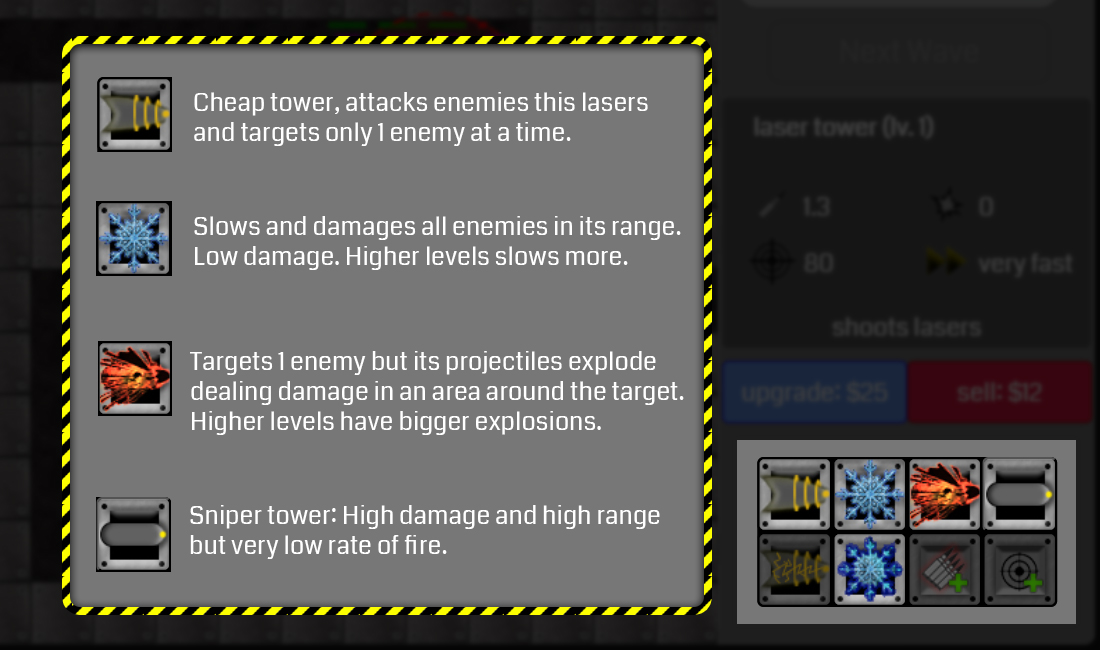
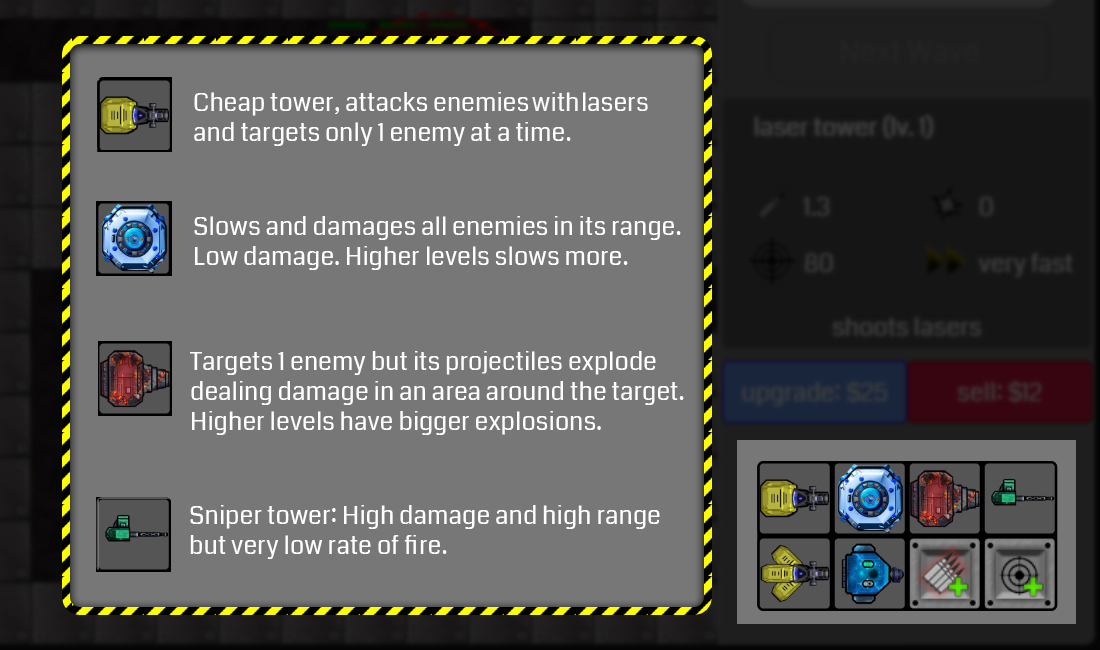
minor fixes & ending screen

diff --git a/Classes/InfoPanel.js b/Classes/InfoPanel.js
@@ -14,6 +14,8 @@ export default class InfoPanel{
     showRadiusCheckbox = document.getElementById("showRadius")
     autoNextLevelCheckbox = document.getElementById("autoNextLevel")
     startButton = document.getElementById("startButton")
+
+    playAgainButton = document.getElementById('playAgainButton')
     
     helpContainer = document.getElementById("helpContainer")
     helpCloseButton = document.getElementById("helpCloseButton")
@@ -47,6 +49,11 @@ export default class InfoPanel{
         this.speedIcon.src = _PATHS.speedIcon
 
         this.blackScreen.append(this.helpScreen)
+
+        this.playAgainButton.addEventListener("click", (e)=>{
+            e.preventDefault()
+            location.reload()
+        })
 
         this.helpButton.addEventListener("click", (e)=>{
             e.preventDefault()
@@ -107,6 +114,10 @@ export default class InfoPanel{
 
             this.game.map.tiles[tower.tile.x][tower.tile.y].tower = false
             this.game.graphics.changeTile(tower.tile.x, tower.tile.y, "grey")
+
+            if(tower.type === "stop" && tower.target !== null){
+                tower.target.removeStatus("stop")
+            }
 
             this.game.player.addMoney(tower.sellPrice)
 
@@ -364,7 +375,7 @@ export default class InfoPanel{
             if(this.game.player.checkIfMoney(true, button.id)){
                 button.style.opacity = "1"
             }else{
-                button.style.opacity = "0.5"
+                button.style.opacity = "0.33"
             }
         })
     }

diff --git a/imgPaths.js b/imgPaths.js
@@ -20,17 +20,17 @@ const _PATHS = {
     roadFloor:              dir+"roadFloorTile.jpg",
     openFloor:              dir+"openFloorTile.jpg",
     laserTower:             dir+"laserTurret2.png",
-    laserTowerIcon:         dir+"laserTurretIcon.jpg",
+    laserTowerIcon:         dir+"laserTurret2.png",
     chainLaserTower:        dir+"chainLaserTurret2.png",
-    chainLaserTowerIcon:    dir+"chainLaserIcon.jpg",
+    chainLaserTowerIcon:    dir+"chainLaserTurret2.png",
     slowTower:              dir+"slowTurret2.png",
-    slowTowerIcon:          dir+"slowTurretIcon.jpg",
+    slowTowerIcon:          dir+"slowTurret2.png",
     stopTower:              dir+"stopTurret2.png",
-    stopTowerIcon:          dir+"stopTowerIcon.jpg",
+    stopTowerIcon:          dir+"stopTurret2.png",
     aoeTower:               dir+"aoeTurret2.png",
-    aoeTowerIcon:           dir+"aoeTurretIcon.jpg",
+    aoeTowerIcon:           dir+"aoeTurret2.png",
     sniperTower:            dir+"sniperTurret2.png",
-    sniperTowerIcon:        dir+"sniperTurretIcon.jpg",
+    sniperTowerIcon:        dir+"sniperTurret2.png",
     boostDamageTower:       dir+"boostDamageIcon.jpg",
     boostDamageTowerIcon:   dir+"boostDamageIcon.jpg",
     boostRangeTower:        dir+"boostRangeIcon.jpg",

diff --git a/style.css b/style.css
@@ -409,7 +409,50 @@ body{
     border-radius: 5px;
     font-size: 1.5rem;
     background-color: #777;
+}
 
+#endingContainer{
+    position: fixed;
+    display: flex;
+    flex-direction: column;
+    width: 500px;
+    height: 400px;
+    left: 50%;
+    top: 50%;
+    background-color: #333;
+    transform: translate(-50%, -50%);
+    z-index: 9999;
+    box-shadow: 0 0 250px 250px black;
+    text-align: center;
+    color: white;
+    font-weight: 800;
+    font-size: 2rem;
+    border-radius: 0.5rem;
+    border: #999 ridge 5px;
+}
+
+#youLostText{
+    padding: 50px 0;
+}
+
+#playAgainButton{
+    margin: 50px 0;
+    align-self: center;
+    height: 75px;
+    width: 25%;
+    opacity: 0.8;
+    backdrop-filter: blur(10px);
+    border-radius: 15px;
+    border: 2px solid white;
+    box-shadow: 0px 0px 1px 1px white;
+    animation: pulsate 1s infinite;
+}
+
+#playAgainButton:hover{
+    border: solid 2px white;
+    animation: none;
+    opacity: 1;
+    box-shadow: 0px 0px 5px 1px white;
 }
 
 #panel{
@@ -564,7 +607,7 @@ body{
     border-radius: 5px;
     background-repeat:no-repeat;
     background-size: contain;
-    
+    background-color: #555;
 }
 
 #towerButtons button:hover{

diff --git a/Classes/Graphics.js b/Classes/Graphics.js
@@ -378,7 +378,12 @@ export default class Graphics{
     }
 
     lostGame(){
-        this.extraCtx.clearRect(0, 0, this.extraCanvas.width, this.extraCanvas.height);
+        let container = document.getElementById('endingContainer')
+        container.classList.remove('notShown')
+        container.classList.add('shown')
+        let maxLevel = document.getElementById('maxLevelAchievedValue')
+        maxLevel.innerText = this.game.level.id
+        /* this.extraCtx.clearRect(0, 0, this.extraCanvas.width, this.extraCanvas.height);
         this.extraCtx.fillStyle = "darkred"
         this.extraCtx.fillRect(100,100,600,400)
 
@@ -394,7 +399,7 @@ export default class Graphics{
 
         this.extraCtx.font = "35px Arial";
         this.extraCtx.fillStyle = "black"
-        this.extraCtx.fillText("Go !", 550, 345);
+        this.extraCtx.fillText("Go !", 550, 345); */
     }
 
     updateButtons(){

diff --git a/index.html b/index.html
@@ -47,6 +47,13 @@
         <div id="helpPagination"> 1 / 10</div>
     </div>
 
+    <div id="endingContainer" class="notShown">
+        <div id="youLostText">YOU LOST!</div>
+        <div id="maxLevelAchievedText">Level Achieved:</div>
+        <div id="maxLevelAchievedValue">0</div>
+        <button id="playAgainButton">Play Again!</button>
+    </div>
+
     <!-- JUEGO EN SI -->
     <div id="container" class="notShown">
         <!-- <h1 id="cache-warning">*   if problems -> ctrl + F5 to clear cache *</h1> -->
